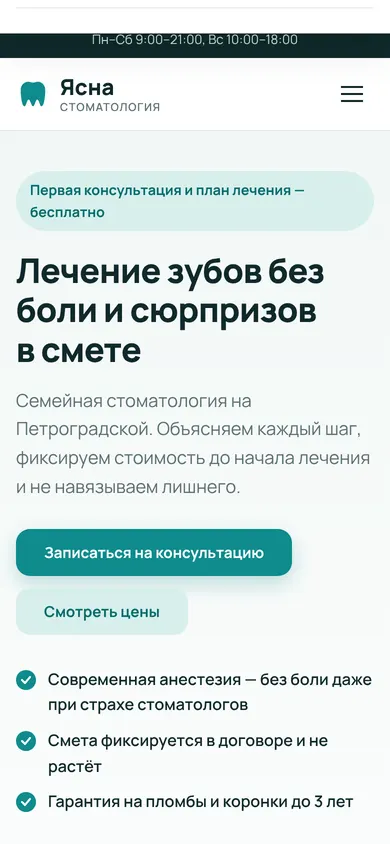
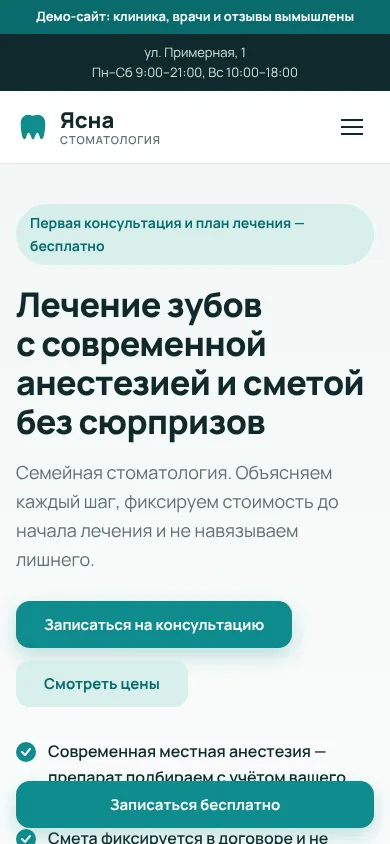
Демо dental: правки QA для медицинской ниши
Плашка «Демо-сайт», адрес-заглушка и карта-заглушка без запросов к Яндексу,
рейтинг и отзывы помечены как пример, тексты благодарностей заменены местом
под виджет отзывов (ст. 24 ФЗ «О рекламе»), убраны обещания безболезненности
и результата, лицензия с органом и ссылкой на реестр Росздравнадзора,
образование и аккредитация врачей, предупреждение у цен, седация — при наличии
лицензии, новое фото первого экрана без лица пациента, починено меню на телефоне.

Claude-Session: https://claude.ai/code/session_016Kq5fMh2xmqsMZY6GNinMZ

diff --git a/demos/dental/index.html b/demos/dental/index.html
@@ -3,11 +3,11 @@
 <head>
   <meta charset="utf-8">
   <meta name="viewport" content="width=device-width, initial-scale=1">
-  <title>Стоматология «Ясна» на Петроградской — лечение без боли, Санкт-Петербург</title>
-  <meta name="description" content="Семейная стоматология на Петроградской: лечение, гигиена, имплантация, элайнеры. Бесплатная консультация и смета, которая не меняется.">
+  <title>Стоматология «Ясна» — лечение зубов, гигиена, имплантация, Санкт-Петербург</title>
+  <meta name="description" content="Семейная стоматология: лечение, гигиена, имплантация, элайнеры. Бесплатная консультация, смета фиксируется в договоре.">
   <meta name="robots" content="noindex, nofollow">
   <meta property="og:title" content="Стоматология «Ясна»">
-  <meta property="og:description" content="Лечение без боли и сюрпризов в смете. Бесплатная первая консультация.">
+  <meta property="og:description" content="Лечение зубов с современной анестезией и сметой без сюрпризов. Бесплатная первая консультация.">
   <meta property="og:type" content="website">
   <link rel="icon" href="favicon.svg" type="image/svg+xml">
   <link rel="preconnect" href="https://fonts.googleapis.com">
@@ -16,9 +16,10 @@
   <link rel="stylesheet" href="styles.css">
 </head>
 <body>
+  <div class="demo-bar">Демо-сайт: клиника, врачи и отзывы вымышлены</div>
   <div class="topbar">
     <div class="container topbar__inner">
-      <span>Большой проспект П.С., 40 · м. Петроградская</span>
+      <span>ул. Примерная, 1</span>
       <span>Пн–Сб 9:00–21:00, Вс 10:00–18:00</span>
     </div>
   </div>
@@ -45,22 +46,22 @@
       <div class="container hero__inner">
         <div class="reveal">
           <span class="badge">Первая консультация и план лечения — бесплатно</span>
-          <h1>Лечение зубов без боли и&nbsp;сюрпризов в&nbsp;смете</h1>
-          <p class="lead">Семейная стоматология на Петроградской. Объясняем каждый шаг, фиксируем стоимость до начала лечения и не навязываем лишнего.</p>
+          <h1>Лечение зубов с&nbsp;современной анестезией и&nbsp;сметой без&nbsp;сюрпризов</h1>
+          <p class="lead">Семейная стоматология. Объясняем каждый шаг, фиксируем стоимость до начала лечения и не навязываем лишнего.</p>
           <div class="hero__actions">
             <a href="#booking" class="btn">Записаться на консультацию</a>
             <a href="#services" class="btn btn--light">Смотреть цены</a>
           </div>
           <ul class="checks">
-            <li>Современная анестезия — без боли даже при страхе стоматологов</li>
+            <li>Современная местная анестезия — препарат подбираем с учётом вашего здоровья</li>
             <li>Смета фиксируется в договоре и не растёт</li>
             <li>Гарантия на пломбы и коронки до 3 лет</li>
           </ul>
         </div>
         <div class="hero__art reveal">
-          <div class="hero__blob"><img src="img/hero.webp" width="1200" height="800" alt="Врач-стоматолог с пациенткой в кабинете" fetchpriority="high"></div>
-          <div class="float float--1" aria-hidden="true"><b>12 лет</b><span>работаем на Петроградской</span></div>
-          <div class="float float--2" aria-hidden="true"><b>4,9 ★</b><span>480 отзывов на картах</span></div>
+          <div class="hero__blob"><img src="img/hero.webp" width="1200" height="800" alt="Врач готовит инструменты к приёму в стоматологическом кабинете" fetchpriority="high"></div>
+          <div class="float float--1" aria-hidden="true"><b>12 лет</b><span>работаем</span></div>
+          <div class="float float--2"><b>4,9 ★</b><span>пример блока рейтинга</span></div>
           <div class="float float--3" aria-hidden="true"><b>0 ₽</b><span>консультация и снимок</span></div>
         </div>
       </div>
@@ -94,13 +95,13 @@
           <article class="card reveal">
             <div class="card__icon"><svg viewBox="0 0 24 24"><path d="M3 10c3-3 15-3 18 0M5 10c0 6 3 9 7 9s7-3 7-9"/></svg></div>
             <h3>Элайнеры и брекеты</h3>
-            <p>Исправление прикуса у детей и взрослых. Показываем результат до старта.</p>
+            <p>Исправление прикуса у детей и взрослых. Показываем план лечения до старта.</p>
             <p class="card__price">от 90 000 ₽</p>
           </article>
           <article class="card reveal">
             <div class="card__icon"><svg viewBox="0 0 24 24"><path d="M12 3v3M12 18v3M3 12h3M18 12h3M5.6 5.6l2.1 2.1M16.3 16.3l2.1 2.1M5.6 18.4l2.1-2.1M16.3 7.7l2.1-2.1"/><circle cx="12" cy="12" r="3"/></svg></div>
             <h3>Отбеливание</h3>
-            <p>Кабинетное отбеливание Opalescence — до 8 тонов за один визит.</p>
+            <p>Кабинетное отбеливание. Результат зависит от исходного цвета — подберём на консультации.</p>
             <p class="card__price">18 000 ₽</p>
           </article>
           <article class="card reveal">
@@ -110,6 +111,7 @@
             <p class="card__price">от 2 500 ₽</p>
           </article>
         </div>
+        <p class="warning warning--prices reveal">Имеются противопоказания. Необходима консультация специалиста.</p>
       </div>
     </section>
 
@@ -148,6 +150,7 @@
               <h3>Елена Морозова</h3>
               <p class="doctor__role">Главный врач, стоматолог-терапевт</p>
               <p class="muted">Стаж 18 лет. Лечение каналов под микроскопом, эстетическая реставрация.</p>
+              <p class="doctor__docs">Образование: медицинский университет, 2007 · Аккредитация: стоматология терапевтическая</p>
             </div>
           </article>
           <article class="doctor reveal">
@@ -156,6 +159,7 @@
               <h3>Алексей Павлов</h3>
               <p class="doctor__role">Хирург-имплантолог</p>
               <p class="muted">Стаж 14 лет. Более 2 000 установленных имплантов, синус-лифтинг.</p>
+              <p class="doctor__docs">Образование: медицинский университет, 2011 · Аккредитация: стоматология хирургическая</p>
             </div>
           </article>
           <article class="doctor reveal">
@@ -164,6 +168,7 @@
               <h3>Ольга Никитина</h3>
               <p class="doctor__role">Ортодонт, детский стоматолог</p>
               <p class="muted">Стаж 10 лет. Элайнеры и брекеты, первые визиты малышей.</p>
+              <p class="doctor__docs">Образование: медицинский университет, 2015 · Аккредитация: ортодонтия, стоматология детская</p>
             </div>
           </article>
         </div>
@@ -173,25 +178,14 @@
     <section class="section section--tint" id="reviews">
       <div class="container">
         <div class="section__head reveal">
-          <h2>Что говорят пациенты</h2>
-          <p class="muted">Отзывы с Яндекс Карт и ПроДокторов.</p>
+          <p class="eyebrow">Пример блока отзывов</p>
+          <h2>Отзывы пациентов</h2>
+          <p class="muted">4,9 ★ — пример блока рейтинга.</p>
         </div>
-        <div class="reviews">
-          <blockquote class="review reveal">
-            <div class="stars" aria-label="5 из 5">★★★★★</div>
-            <p>Боялась стоматологов с детства. Елена Викторовна всё объясняла, укол даже не почувствовала. Теперь хожу на гигиену каждые полгода.</p>
-            <footer>Мария, 34 года</footer>
-          </blockquote>
-          <blockquote class="review reveal">
-            <div class="stars" aria-label="5 из 5">★★★★★</div>
-            <p>Ставил два импланта. Смету дали на консультации — в итоге заплатил ровно ту же сумму, ни рублём больше.</p>
-            <footer>Сергей, 52 года</footer>
-          </blockquote>
-          <blockquote class="review reveal">
-            <div class="stars" aria-label="5 из 5">★★★★★</div>
-            <p>Водим сюда обоих детей. Ольга Андреевна находит подход даже к нашему трёхлетке.</p>
-            <footer>Наталья, мама двоих детей</footer>
-          </blockquote>
+        <div class="widget-stub reveal">
+          <span class="widget-stub__stars" aria-hidden="true">★★★★★</span>
+          <p>Здесь будет виджет отзывов с Яндекс Карт / ПроДокторов</p>
+          <span class="muted">Отзывы подгружаются с площадки и обновляются сами — без пересказа на сайте.</span>
         </div>
       </div>
     </section>
@@ -204,8 +198,8 @@
         </div>
         <div class="faq__list reveal">
           <details>
-            <summary>Будет ли больно?</summary>
-            <p>Мы используем современные анестетики и аппликационное обезболивание перед уколом. Если вы сильно волнуетесь, предложим лечение с седацией.</p>
+            <summary>Какое обезболивание вы используете?</summary>
+            <p>Местную анестезию: аппликационную (гель) перед уколом и инъекционную. Препарат и дозировку врач подбирает с учётом вашего здоровья и противопоказаний. Седация — при наличии у клиники соответствующей лицензии; возможность уточните на консультации.</p>
           </details>
           <details>
             <summary>Может ли цена вырасти в процессе лечения?</summary>
@@ -255,14 +249,14 @@
         <div class="reveal">
           <h2>Контакты</h2>
           <dl class="contacts__list">
-            <dt>Адрес</dt><dd>Санкт-Петербург, Большой проспект П.С., 40<br>3 минуты от м. Петроградская</dd>
+            <dt>Адрес</dt><dd>Санкт-Петербург, ул. Примерная, 1</dd>
             <dt>Часы работы</dt><dd>Пн–Сб 9:00–21:00<br>Вс 10:00–18:00</dd>
             <dt>Телефон</dt><dd><a href="tel:+78120000000">+7 (812) 000-00-00</a></dd>
             <dt>Почта</dt><dd><a href="mailto:info@yasna-dent.example">info@yasna-dent.example</a></dd>
           </dl>
         </div>
         <div class="map reveal">
-          <iframe title="Карта: стоматология Ясна" src="https://yandex.ru/map-widget/v1/?ll=30.308%2C59.962&z=16&pt=30.308%2C59.962%2Cpm2gnm" loading="lazy" allowfullscreen></iframe>
+          <div class="map-stub"><span class="map-stub__pin" aria-hidden="true"></span><p>Здесь будет карта Яндекса с вашей точкой</p></div>
         </div>
       </div>
     </section>
@@ -272,7 +266,7 @@
     <div class="container">
       <p class="warning">Имеются противопоказания. Необходима консультация специалиста.</p>
       <div class="footer__inner">
-        <p>ООО «Ясна», ИНН 0000000000, ОГРН 0000000000000<br>Лицензия на медицинскую деятельность № Л041-00000-00/00000000 от 01.01.2020</p>
+        <p>ООО «Ясна», ИНН 0000000000, ОГРН 0000000000000<br>Лицензия на медицинскую деятельность № Л041-00000-00/00000000 от 01.01.2020, выдана Комитетом по здравоохранению Санкт-Петербурга (пример)<br><a href="https://roszdravnadzor.gov.ru/services/licenses" target="_blank" rel="noopener">Выписка из реестра лицензий Росздравнадзора</a></p>
         <p><a href="privacy.html">Политика конфиденциальности</a><br>© <span data-year></span> Стоматология «Ясна»</p>
       </div>
       <p class="demo-note">Демо-сайт для портфолио. Клиника, врачи, отзывы и реквизиты вымышлены.</p>

diff --git a/demos/dental/styles.css b/demos/dental/styles.css
@@ -185,12 +185,13 @@ p { margin: 0 0 1em; }
 @media (max-width: 760px) {
   .topbar__inner { flex-direction: column; gap: 0; text-align: center; }
   .burger { display: block; }
+  /* меню прячется целиком: прозрачность + visibility, без выезда из-под шапки */
   .nav {
-    position: fixed; inset: 72px 0 auto; flex-direction: column; gap: 0; padding: 8px 16px 24px;
+    position: absolute; top: 100%; left: 0; right: 0; flex-direction: column; gap: 0; padding: 8px 16px 24px;
     background: #fff; border-bottom: 1px solid var(--line); box-shadow: 0 20px 40px rgb(0 0 0 / .08);
-    transform: translateY(-130%); transition: transform .3s; z-index: -1;
+    opacity: 0; visibility: hidden; transform: translateY(-8px); transition: opacity .2s, transform .2s, visibility .2s;
   }
-  .nav.is-open { transform: none; }
+  .nav.is-open { opacity: 1; visibility: visible; transform: none; }
   .nav a { padding: 14px 0; font-size: 18px; color: var(--text); border-bottom: 1px solid var(--line); }
   .hero__art { max-width: 300px; }
   .float { padding: 10px 14px; }
@@ -215,3 +216,16 @@ p { margin: 0 0 1em; }
 .clinic figcaption { color: var(--muted); font-size: 15px; font-weight: 600; }
 @media (max-width: 960px) { .clinic__grid { grid-template-columns: 1fr 1fr; } .clinic__tall { grid-column: span 2; max-height: 300px; } }
 @media (max-width: 760px) { .clinic__grid { grid-template-columns: 1fr; } .clinic__tall { grid-column: auto; max-height: 260px; } }
+
+/* Демо-плашка, предупреждение у цен, документы врачей, заглушки виджетов */
+.demo-bar { padding: 8px 16px; background: var(--accent-dark); color: #fff; text-align: center; font-size: 13px; font-weight: 700; line-height: 1.35; }
+.warning--prices { margin: 28px 0 0; padding: 14px 16px; border: 2px solid var(--text); border-radius: 12px; color: var(--text); text-align: center; font-size: clamp(14px, 2vw, 18px); }
+.doctor__docs { margin: 8px 0 0; font-size: 13px; color: var(--muted); }
+.eyebrow { margin: 0 0 8px; color: var(--accent); font-size: 13px; font-weight: 800; letter-spacing: .14em; text-transform: uppercase; }
+.widget-stub { display: grid; justify-items: center; gap: 8px; padding: 48px 24px; text-align: center; background: #fff; border: 2px dashed var(--line); border-radius: var(--radius); }
+.widget-stub p { margin: 0; font-size: 18px; font-weight: 700; }
+.widget-stub__stars { color: #e3a52b; font-size: 22px; letter-spacing: 3px; }
+.map-stub { display: grid; place-content: center; justify-items: center; gap: 12px; height: 100%; padding: 24px; text-align: center; color: var(--muted);
+  background: linear-gradient(90deg, rgb(16 41 43 / .05) 1px, transparent 1px) 0 0 / 40px 40px, linear-gradient(rgb(16 41 43 / .05) 1px, transparent 1px) 0 0 / 40px 40px, var(--tint); }
+.map-stub p { margin: 0; font-weight: 700; }
+.map-stub__pin { width: 28px; height: 28px; border-radius: 50% 50% 50% 0; background: var(--accent); transform: rotate(-45deg); }

diff --git a/demos/dental/privacy.html b/demos/dental/privacy.html
@@ -39,7 +39,7 @@
     <p>Оператор принимает правовые, организационные и технические меры для защиты данных от неправомерного доступа, изменения и распространения.</p>
 
     <h2>8. Контакты оператора</h2>
-    <p>ООО «Ясна», ИНН 0000000000, ОГРН 0000000000000<br>Адрес: Санкт-Петербург, Большой проспект П.С., 40<br>E-mail: info@yasna-dent.example</p>
+    <p>ООО «Ясна», ИНН 0000000000, ОГРН 0000000000000<br>Адрес: Санкт-Петербург, ул. Примерная, 1<br>E-mail: info@yasna-dent.example</p>
 
     <p class="muted demo-note">Демо-сайт: компания вымышлена. Текст политики — шаблон, для реального сайта его проверяет юрист.</p>
   </main>

diff --git a/demos/PHOTO-CREDITS.md b/demos/PHOTO-CREDITS.md
@@ -10,7 +10,7 @@ https://www.pexels.com/license/
 | barbershop/img/work-2.webp | 13138585 |
 | barbershop/img/work-3.webp | 1319462 |
 | barbershop/img/work-4.webp | 7697280 |
-| dental/img/hero.webp | 3952016 |
+| dental/img/hero.webp | 3952008 |
 | dental/img/doctor-1.webp | 305567 |
 | dental/img/doctor-2.webp | 6627424 |
 | dental/img/chair.webp | 4269276 |
